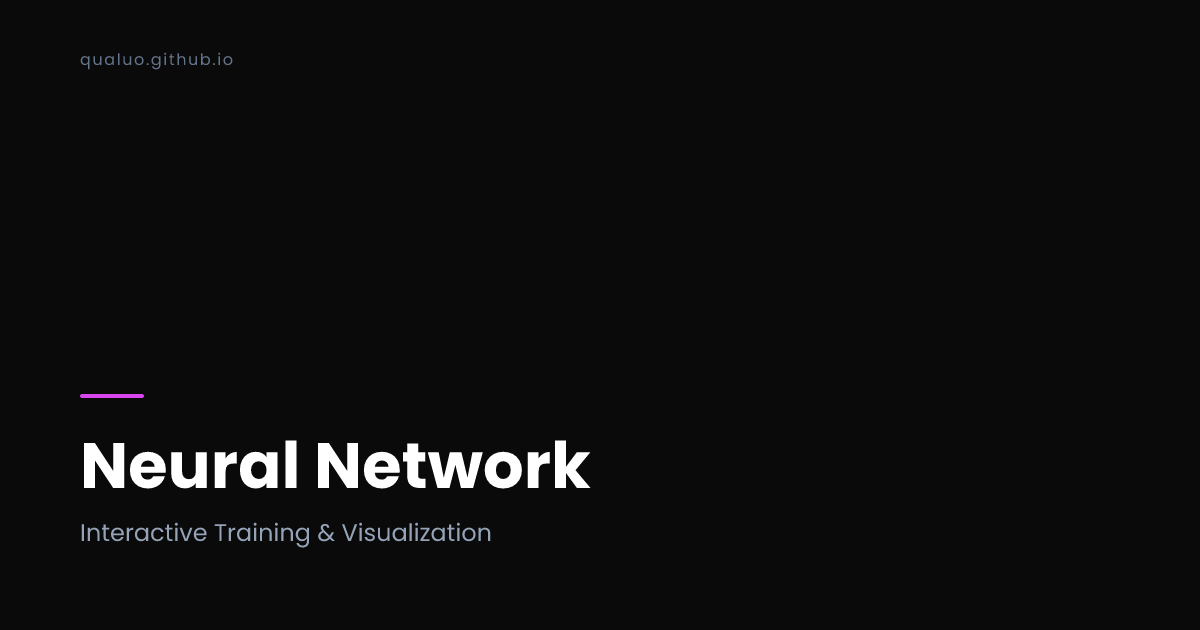
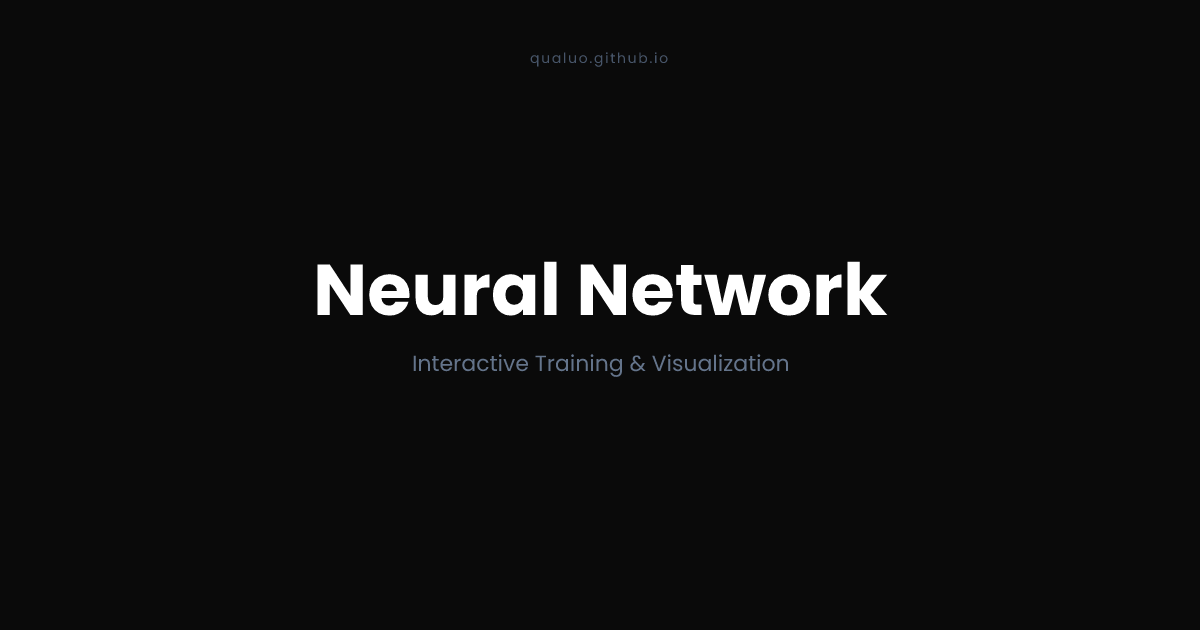
feat: redesign OG images — centered layout, remove accent bar, regenerate all

diff --git a/portfolio/scripts/generate-og-images.tsx b/portfolio/scripts/generate-og-images.tsx
@@ -29,7 +29,6 @@ interface OGPageDef {
   path: string;
   title: string;
   subtitle: string;
-  accentColor: string;
 }
 
 function buildPageList(): OGPageDef[] {
@@ -37,74 +36,67 @@ function buildPageList(): OGPageDef[] {
     {
       path: "public/og/home.png",
       title: "Quang Luong",
-      subtitle: "Systems Architect & Creative Technologist",
-      accentColor: "#60a5fa",
+      subtitle: "Building Systems. Crafting Experiences.",
     },
     {
       path: "public/og/about.png",
       title: "About",
-      subtitle: "Systems Architect & Creative Technologist",
-      accentColor: "#60a5fa",
+      subtitle: "Building Systems. Crafting Experiences.",
     },
     {
       path: "public/og/work.png",
       title: "Selected Work",
       subtitle: "Enterprise AI, Automation, 3D Visualization & More",
-      accentColor: "#a78bfa",
     },
     {
       path: "public/og/demos.png",
       title: "Demo Laboratory",
       subtitle: "Interactive Browser Experiments",
-      accentColor: "#818cf8",
     },
     {
       path: "public/og/points.png",
       title: "Points of View",
       subtitle: "Enterprise Architecture Presentations",
-      accentColor: "#94a3b8",
     },
     {
       path: "public/og/creative.png",
       title: "Creative Works",
       subtitle: "Experiments in Connection, Expression & Craft",
-      accentColor: "#f472b6",
     },
     {
       path: "public/og/colophon.png",
       title: "The Night Sky",
       subtitle: "60\u00b0N \u2014 A Swedish Winter Night",
-      accentColor: "#93c5fd",
     },
     {
       path: "public/og/blob.png",
       title: "Iridescent",
       subtitle: "GLSL Shaders, Perlin Noise & Fresnel Iridescence",
-      accentColor: "#c084fc",
     },
     {
       path: "public/og/rfcs.png",
       title: "Requests for Comments",
       subtitle: "Structured Architectural Proposals",
-      accentColor: "#3b82f6",
     },
     {
       path: "public/og/creative/flowers.png",
       title: "Flower Garden",
       subtitle: "An Interactive Digital Garden",
-      accentColor: "#FDBA74",
     },
     {
       path: "public/og/creative/sakura.png",
       title: "Sakura",
       subtitle: "Transient Beauty in Bloom",
-      accentColor: "#F9A8D4",
     },
     {
       path: "public/og/creative/type-race.png",
       title: "Type Race",
       subtitle: "A Beautiful Typing Speed Game",
-      accentColor: "#FBBF24",
+    },
+    {
+      path: "public/og/creative/embers.png",
+      title: "Embers",
+      subtitle: "Warmth in the Dark",
     },
   ];
 
@@ -113,7 +105,6 @@ function buildPageList(): OGPageDef[] {
       path: `public/og/demos/${demo.slug}.png`,
       title: demo.title,
       subtitle: demo.subtitle,
-      accentColor: gradientToColor(demo.gradient),
     });
   }
 
@@ -122,7 +113,6 @@ function buildPageList(): OGPageDef[] {
       path: `public/og/points/${point.slug}.png`,
       title: point.title,
       subtitle: point.subtitle,
-      accentColor: gradientToColor(point.gradient),
     });
   }
 
@@ -131,38 +121,10 @@ function buildPageList(): OGPageDef[] {
       path: `public/og/rfcs/${rfc.slug}.png`,
       title: rfc.title,
       subtitle: rfc.subtitle,
-      accentColor: gradientToColor(rfc.gradient),
     });
   }
 
   return pages;
-}
-
-function gradientToColor(gradient: string): string {
-  const match = gradient.match(/from-(\w+)-(\d+)/);
-  if (!match) return "#60a5fa";
-
-  const colorMap: Record<string, Record<string, string>> = {
-    emerald: { "500": "#10b981" },
-    teal: { "500": "#14b8a6" },
-    cyan: { "500": "#06b6d4" },
-    violet: { "500": "#8b5cf6" },
-    purple: { "500": "#a855f7" },
-    fuchsia: { "500": "#d946ef" },
-    orange: { "500": "#f97316" },
-    rose: { "500": "#f43f5e" },
-    pink: { "500": "#ec4899" },
-    indigo: { "500": "#6366f1" },
-    blue: { "500": "#3b82f6" },
-    sky: { "500": "#0ea5e9" },
-    amber: { "500": "#f59e0b" },
-    slate: { "400": "#94a3b8", "500": "#64748b" },
-    zinc: { "400": "#a1a1aa" },
-    neutral: { "500": "#737373" },
-    red: { "500": "#ef4444" },
-  };
-
-  return colorMap[match[1]]?.[match[2]] || "#60a5fa";
 }
 
 async function generateImage(
@@ -178,8 +140,8 @@ async function generateImage(
           height: "100%",
           display: "flex",
           flexDirection: "column",
-          justifyContent: "flex-end",
-          padding: "80px",
+          alignItems: "center",
+          justifyContent: "center",
           backgroundColor: "#0a0a0a",
           fontFamily: "Poppins",
         },
@@ -190,10 +152,9 @@ async function generateImage(
               style: {
                 position: "absolute",
                 top: "48px",
-                left: "80px",
-                fontSize: "16px",
-                color: "#64748b",
-                letterSpacing: "0.1em",
+                fontSize: "14px",
+                color: "#475569",
+                letterSpacing: "0.12em",
               },
               children: "qualuo.github.io",
             },
@@ -202,36 +163,40 @@ async function generateImage(
             type: "div",
             props: {
               style: {
-                width: "64px",
-                height: "4px",
-                backgroundColor: page.accentColor,
-                borderRadius: "2px",
-                marginBottom: "32px",
+                display: "flex",
+                flexDirection: "column",
+                alignItems: "center",
+                textAlign: "center",
+                padding: "0 120px",
               },
-            },
-          },
-          {
-            type: "div",
-            props: {
-              style: {
-                fontSize: "64px",
-                fontWeight: 700,
-                color: "#ffffff",
-                lineHeight: 1.1,
-                marginBottom: "16px",
-              },
-              children: page.title,
-            },
-          },
-          {
-            type: "div",
-            props: {
-              style: {
-                fontSize: "24px",
-                color: "#94a3b8",
-                fontWeight: 400,
-              },
-              children: page.subtitle,
+              children: [
+                {
+                  type: "div",
+                  props: {
+                    style: {
+                      fontSize: "72px",
+                      fontWeight: 700,
+                      color: "#ffffff",
+                      lineHeight: 1.05,
+                      marginBottom: "20px",
+                      textAlign: "center",
+                    },
+                    children: page.title,
+                  },
+                },
+                {
+                  type: "div",
+                  props: {
+                    style: {
+                      fontSize: "22px",
+                      color: "#64748b",
+                      fontWeight: 400,
+                      textAlign: "center",
+                    },
+                    children: page.subtitle,
+                  },
+                },
+              ],
             },
           },
         ],
